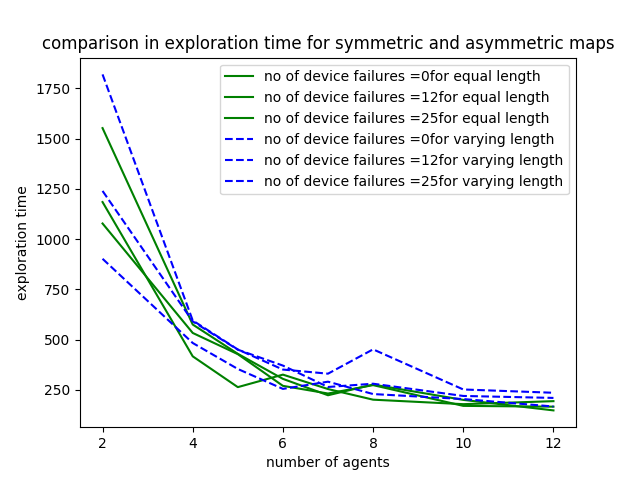
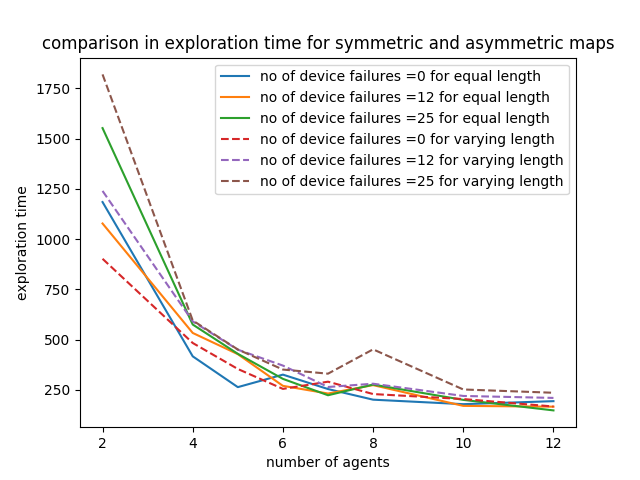
comparison2 added

diff --git a/conscientious_reactive/compare_exploration_time.py b/conscientious_reactive/compare_exploration_time.py
@@ -35,7 +35,7 @@ for dead in deads:
 		avg.append(np.mean(run_exploration_time))
 		std.append(np.std(run_exploration_time))
 	print(avg)
-	plt.plot(cars, avg, 'g-', label ="no of device failures ="+str(dead)+"for equal length")
+	plt.plot(cars, avg, '-', label ="no of device failures ="+str(dead)+" for equal length")
 	plt.draw()
 for dead in deads:
 	avg = []
@@ -62,7 +62,7 @@ for dead in deads:
 		avg.append(np.mean(run_exploration_time))
 		std.append(np.std(run_exploration_time))
 	print(avg)
-	plt.plot(cars, avg, 'b--',label ="no of device failures ="+str(dead)+"for varying length")
+	plt.plot(cars, avg, '--',label ="no of device failures ="+str(dead)+" for varying length")
 	plt.draw()
 # plt.plot(cars, avg, 'b--')
 # plt.errorbar(cars, avg,yerr=std, fmt = 'o', ecolor='g', capthick=1.0)

diff --git a/conscientious_reactive/compare_idleness.py b/conscientious_reactive/compare_idleness.py
@@ -27,7 +27,7 @@ for dead in deads:
 		avg.append(np.mean(graph_idlness))
 		# std.append(np.std(graph_idlness))
 	print(avg)
-	plt.plot(cars, avg, 'g-',label ="no of device failures ="+str(dead)+"for equal length")
+	plt.plot(cars, avg, '-',label ="no. of device failures ="+str(dead)+" for equal length")
 	plt.draw()
 
 for dead in deads:
@@ -46,7 +46,7 @@ for dead in deads:
 		avg.append(np.mean(graph_idlness))
 		# std.append(np.std(graph_idlness))
 	print(avg)
-	plt.plot(cars, avg,'b--', label ="no of device failures ="+str(dead)+"for varying length")
+	plt.plot(cars, avg,'--', label ="no. of device failures ="+str(dead)+" for varying length")
 	plt.draw()
 # plt.plot(cars, avg, 'b--')
 # for i in range(len(avgs)):
